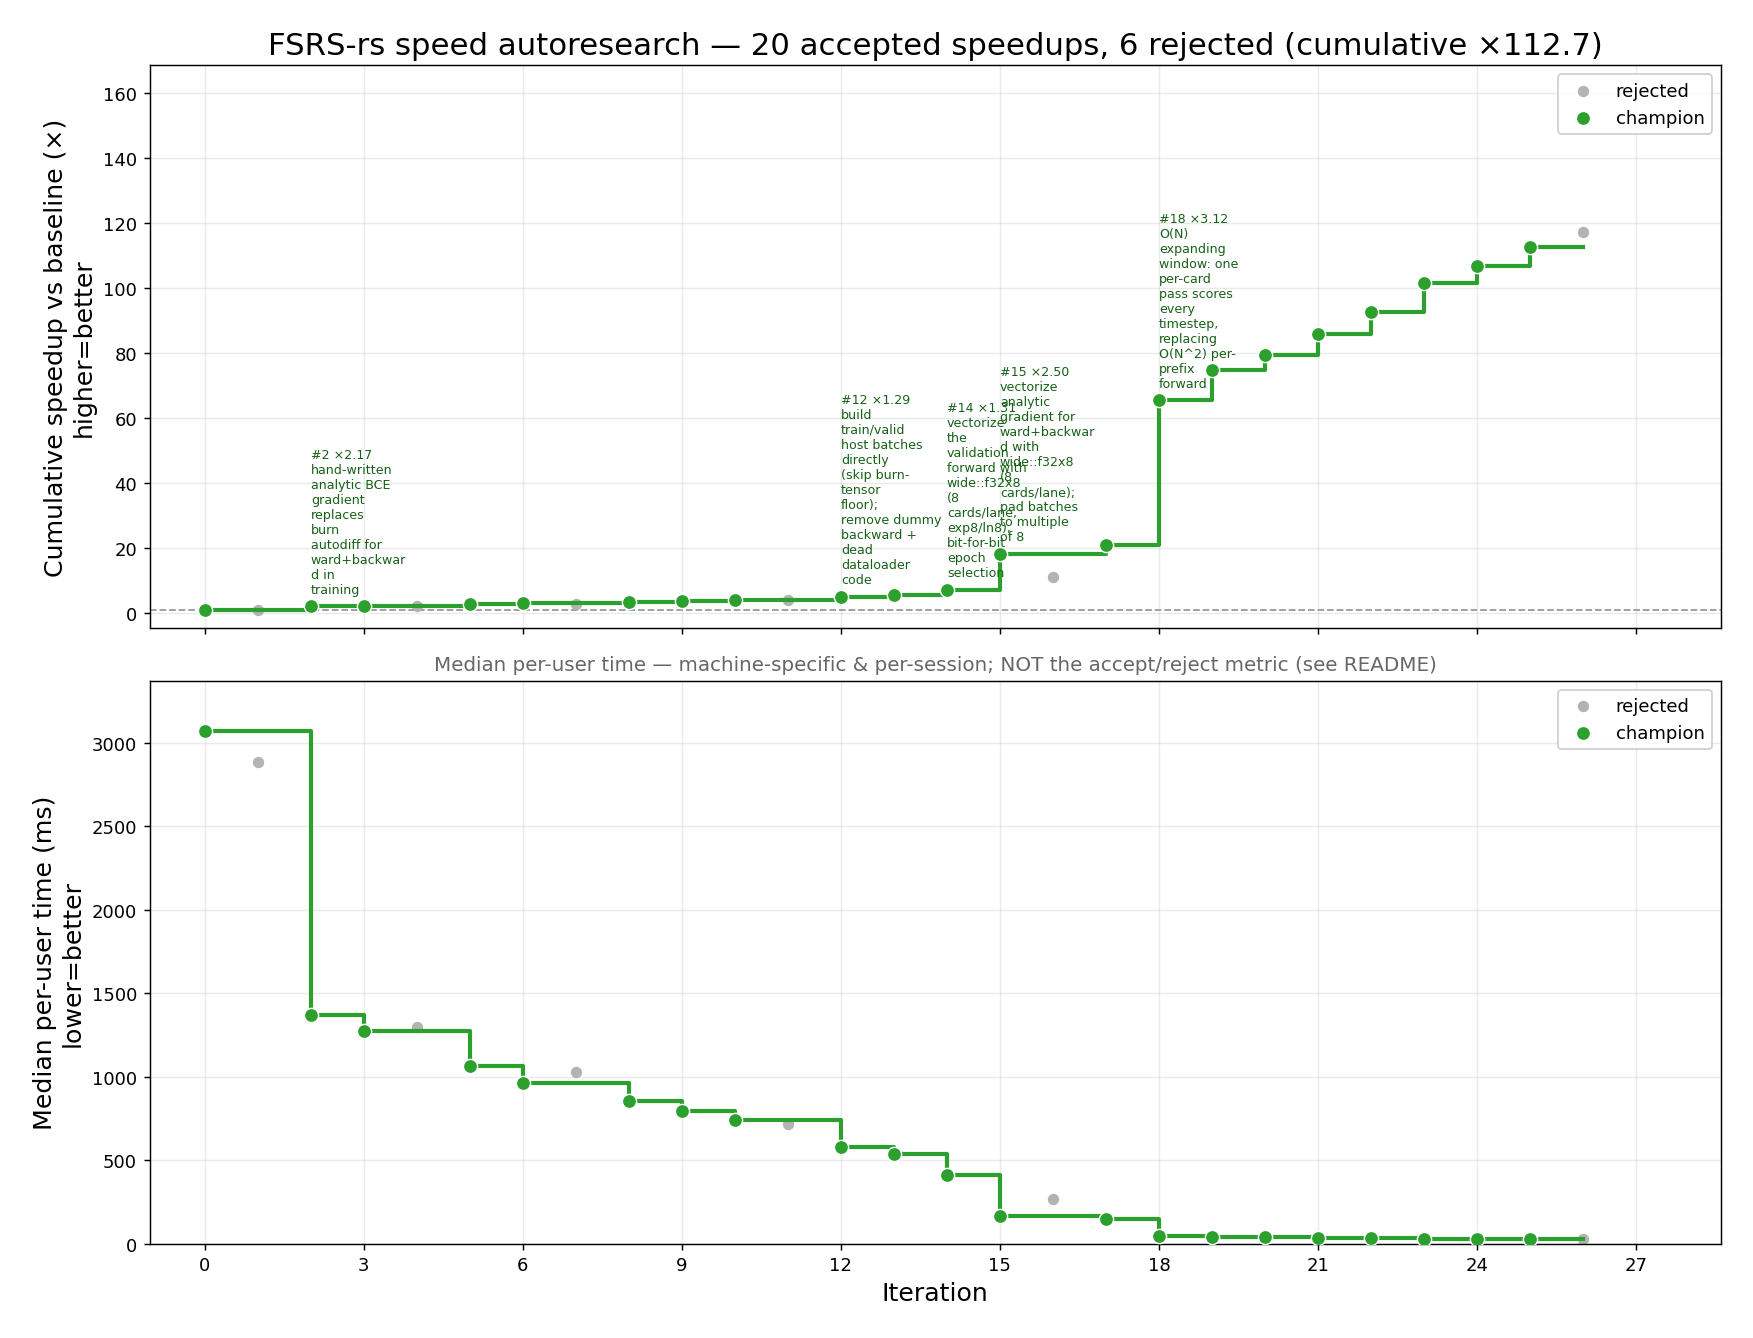
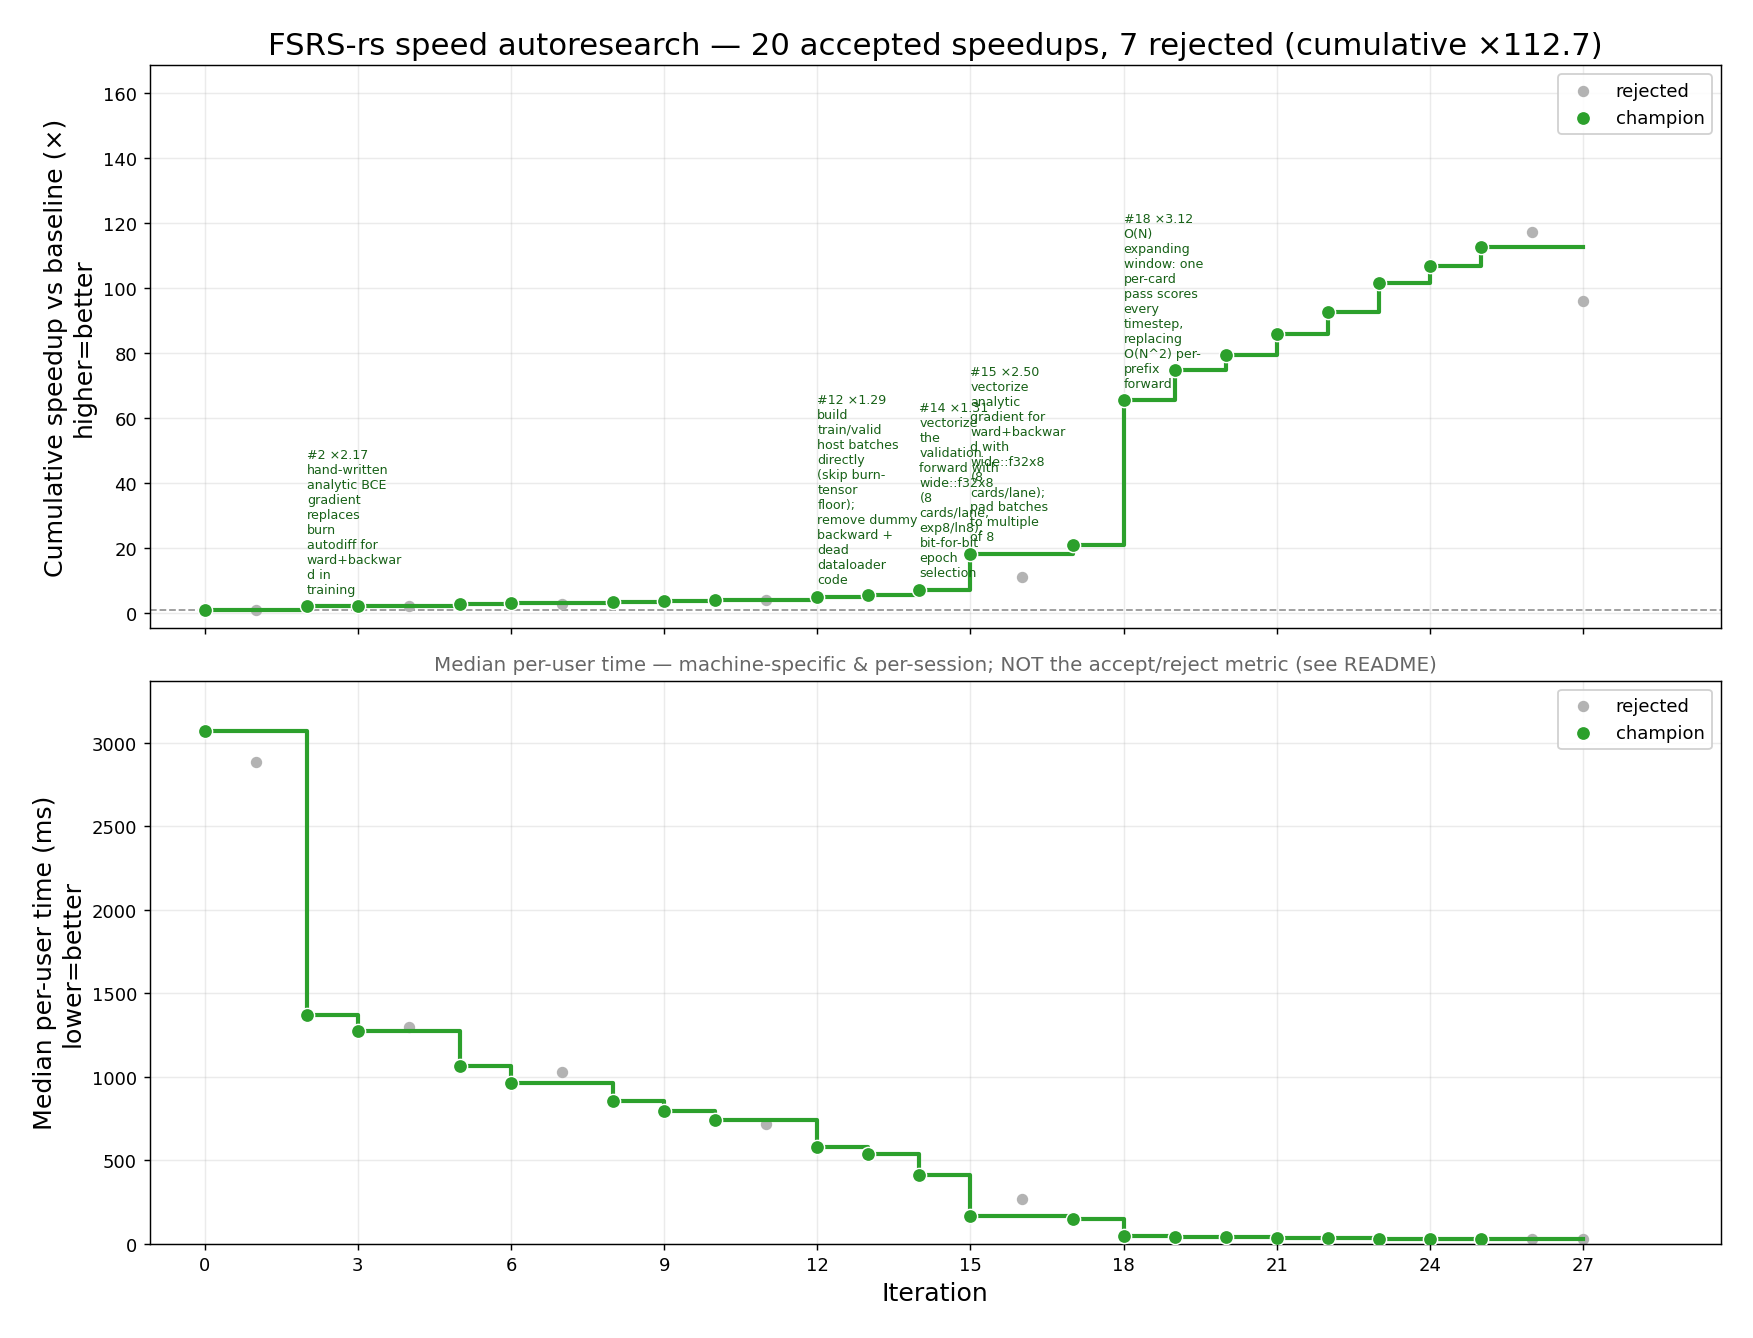
iter27 REJECTED: branchless step (mask first review) — 0.85x, bit-for-bit
Andrew's idea (from a Python-version Claude, untested there): replace step's `if first` branch
with computing both the init and update paths and mask-selecting the first review. Tried it on the
windowed SIMD kernel (analytic.rs step8_fwd), timed officially (min-of-3, 50 users).

Result: speed_ratio 0.8519 — a ~15% SLOWDOWN, REJECTED. Bit-for-bit (0/50 param diff,
d_AVG LogLoss +0.000000, LogLoss 0.308320 in band; 6 cargo oracle tests green incl. grad_matches_fd).

Why it doesn't transfer: in the windowed kernel `first` is UNIFORM per timestep (t==0 across all 8
lanes), not a per-lane data-dependent branch — so computing both paths every step is pure extra work
(the expensive curve+2stab+next_d update at t==0 + an init exp8 at every t>=1) with no divergence to
hide. The Python idea targets a mixed-batch data-dependent branch + the torch.equal GPU sync, neither
of which exists here. Change reverted; champion unchanged (HEAD = 3115047). cand .pyd 5e42811e.

Note: iters <=26 are the pre-release draft model; this is a finished-model-era measurement (champion
23.5 ms/50u), so the history median-time line is discontinuous at iter 27. Cumulative product (accepted
only) stays x112.724.

diff --git a/result/history.md b/result/history.md
@@ -31,6 +31,7 @@ Accept metric: **median per-user speed_ratio ≥ 1.05** (constraint 12) AND **sp
 | 24 | 30 | 28 | 1.053 | 7219 | 7231 | 1.002 | 1.004 | ✓ | accepted | Fuse 3 exp-pairs/timestep (curve se, stab pr x2) + skip dead last-timestep state-update in validation forward |
 | 25 | 28 | 28 | 1.054 | 7231 | 7257 | 1.004 | 1.009 | ✓ | accepted | Gradient skip-last (curve-only at final timestep) + cached sort-key + merged longest-prefix scan; bit-for-bit |
 | 26 | 27 | 26 | 1.041 | 7257 | 7285 | 1.004 | 1.010 | ✓ | rejected | Per-group padding skip: each group runs only to its longest card, not the batch-wide seq_len |
+| 27 | 24 | 29 | 0.852 | 10502 | 10516 | 1.001 | 1.003 | ✓ | rejected | Branchless step: compute both init and update paths, mask-select the first review |
 
 **Cumulative speed_ratio (product of accepted): ×112.724** — upward-biased (winner's curse); anchor periodically vs iter-0 baseline.
 
